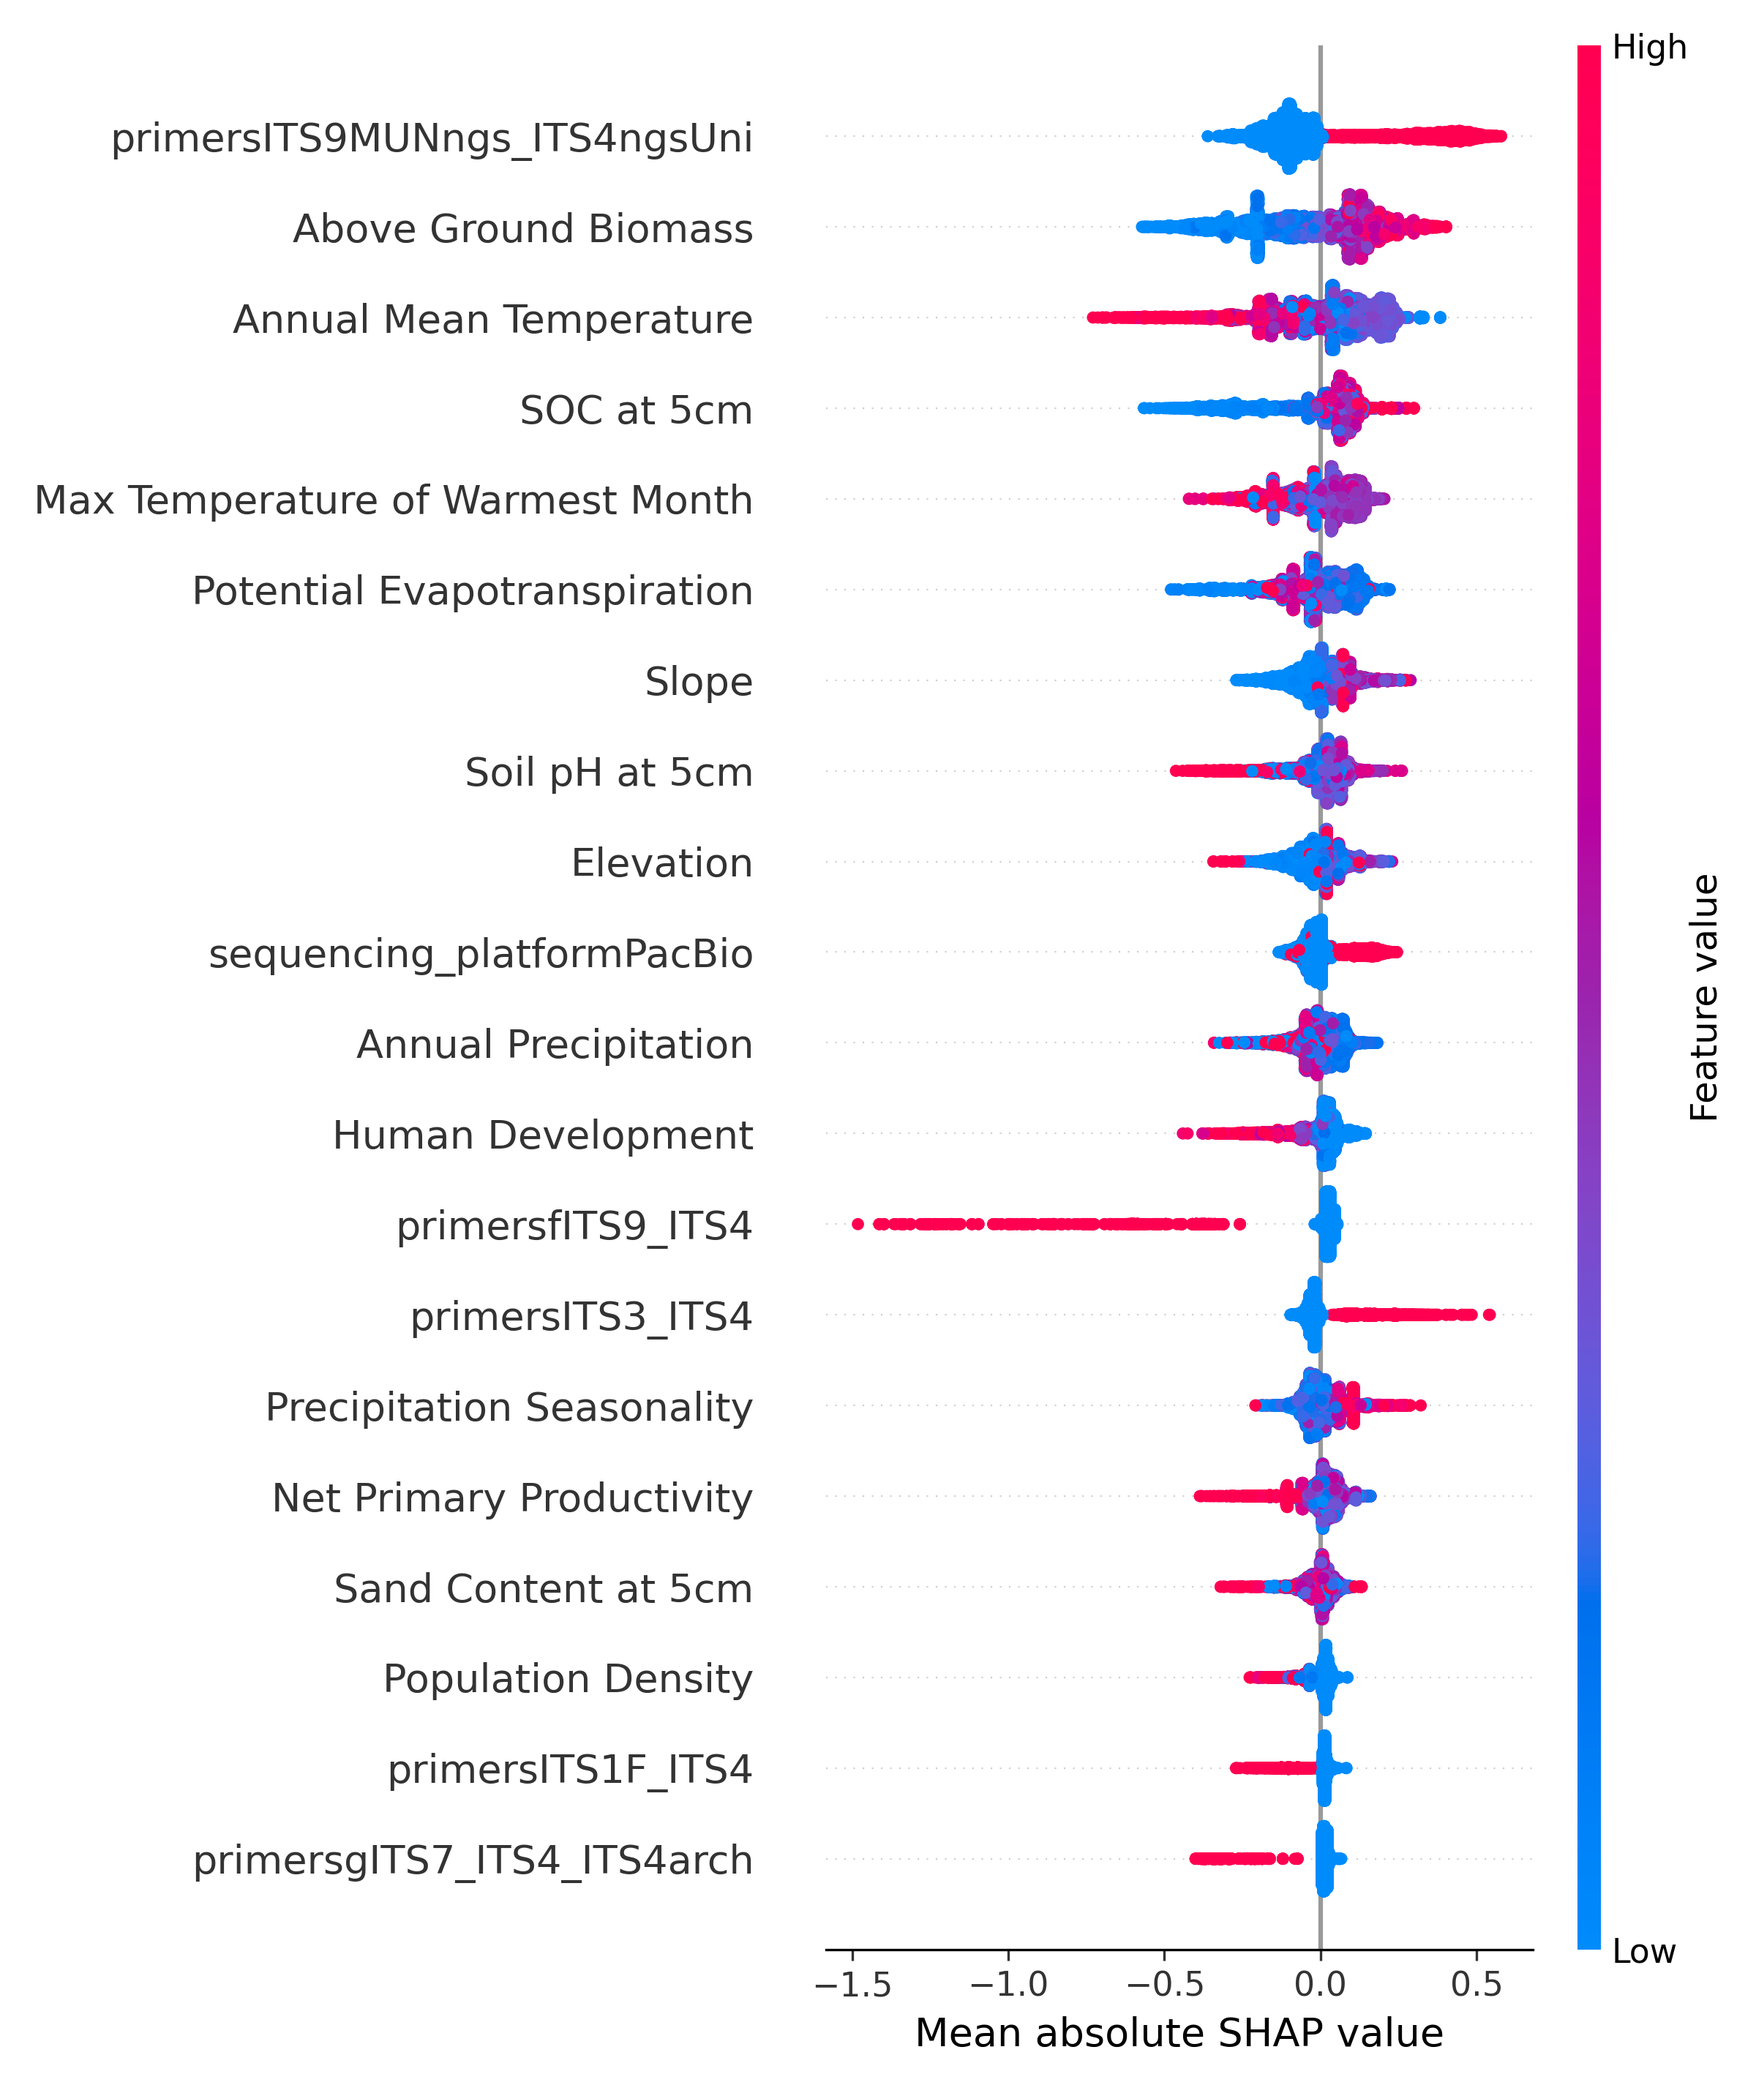
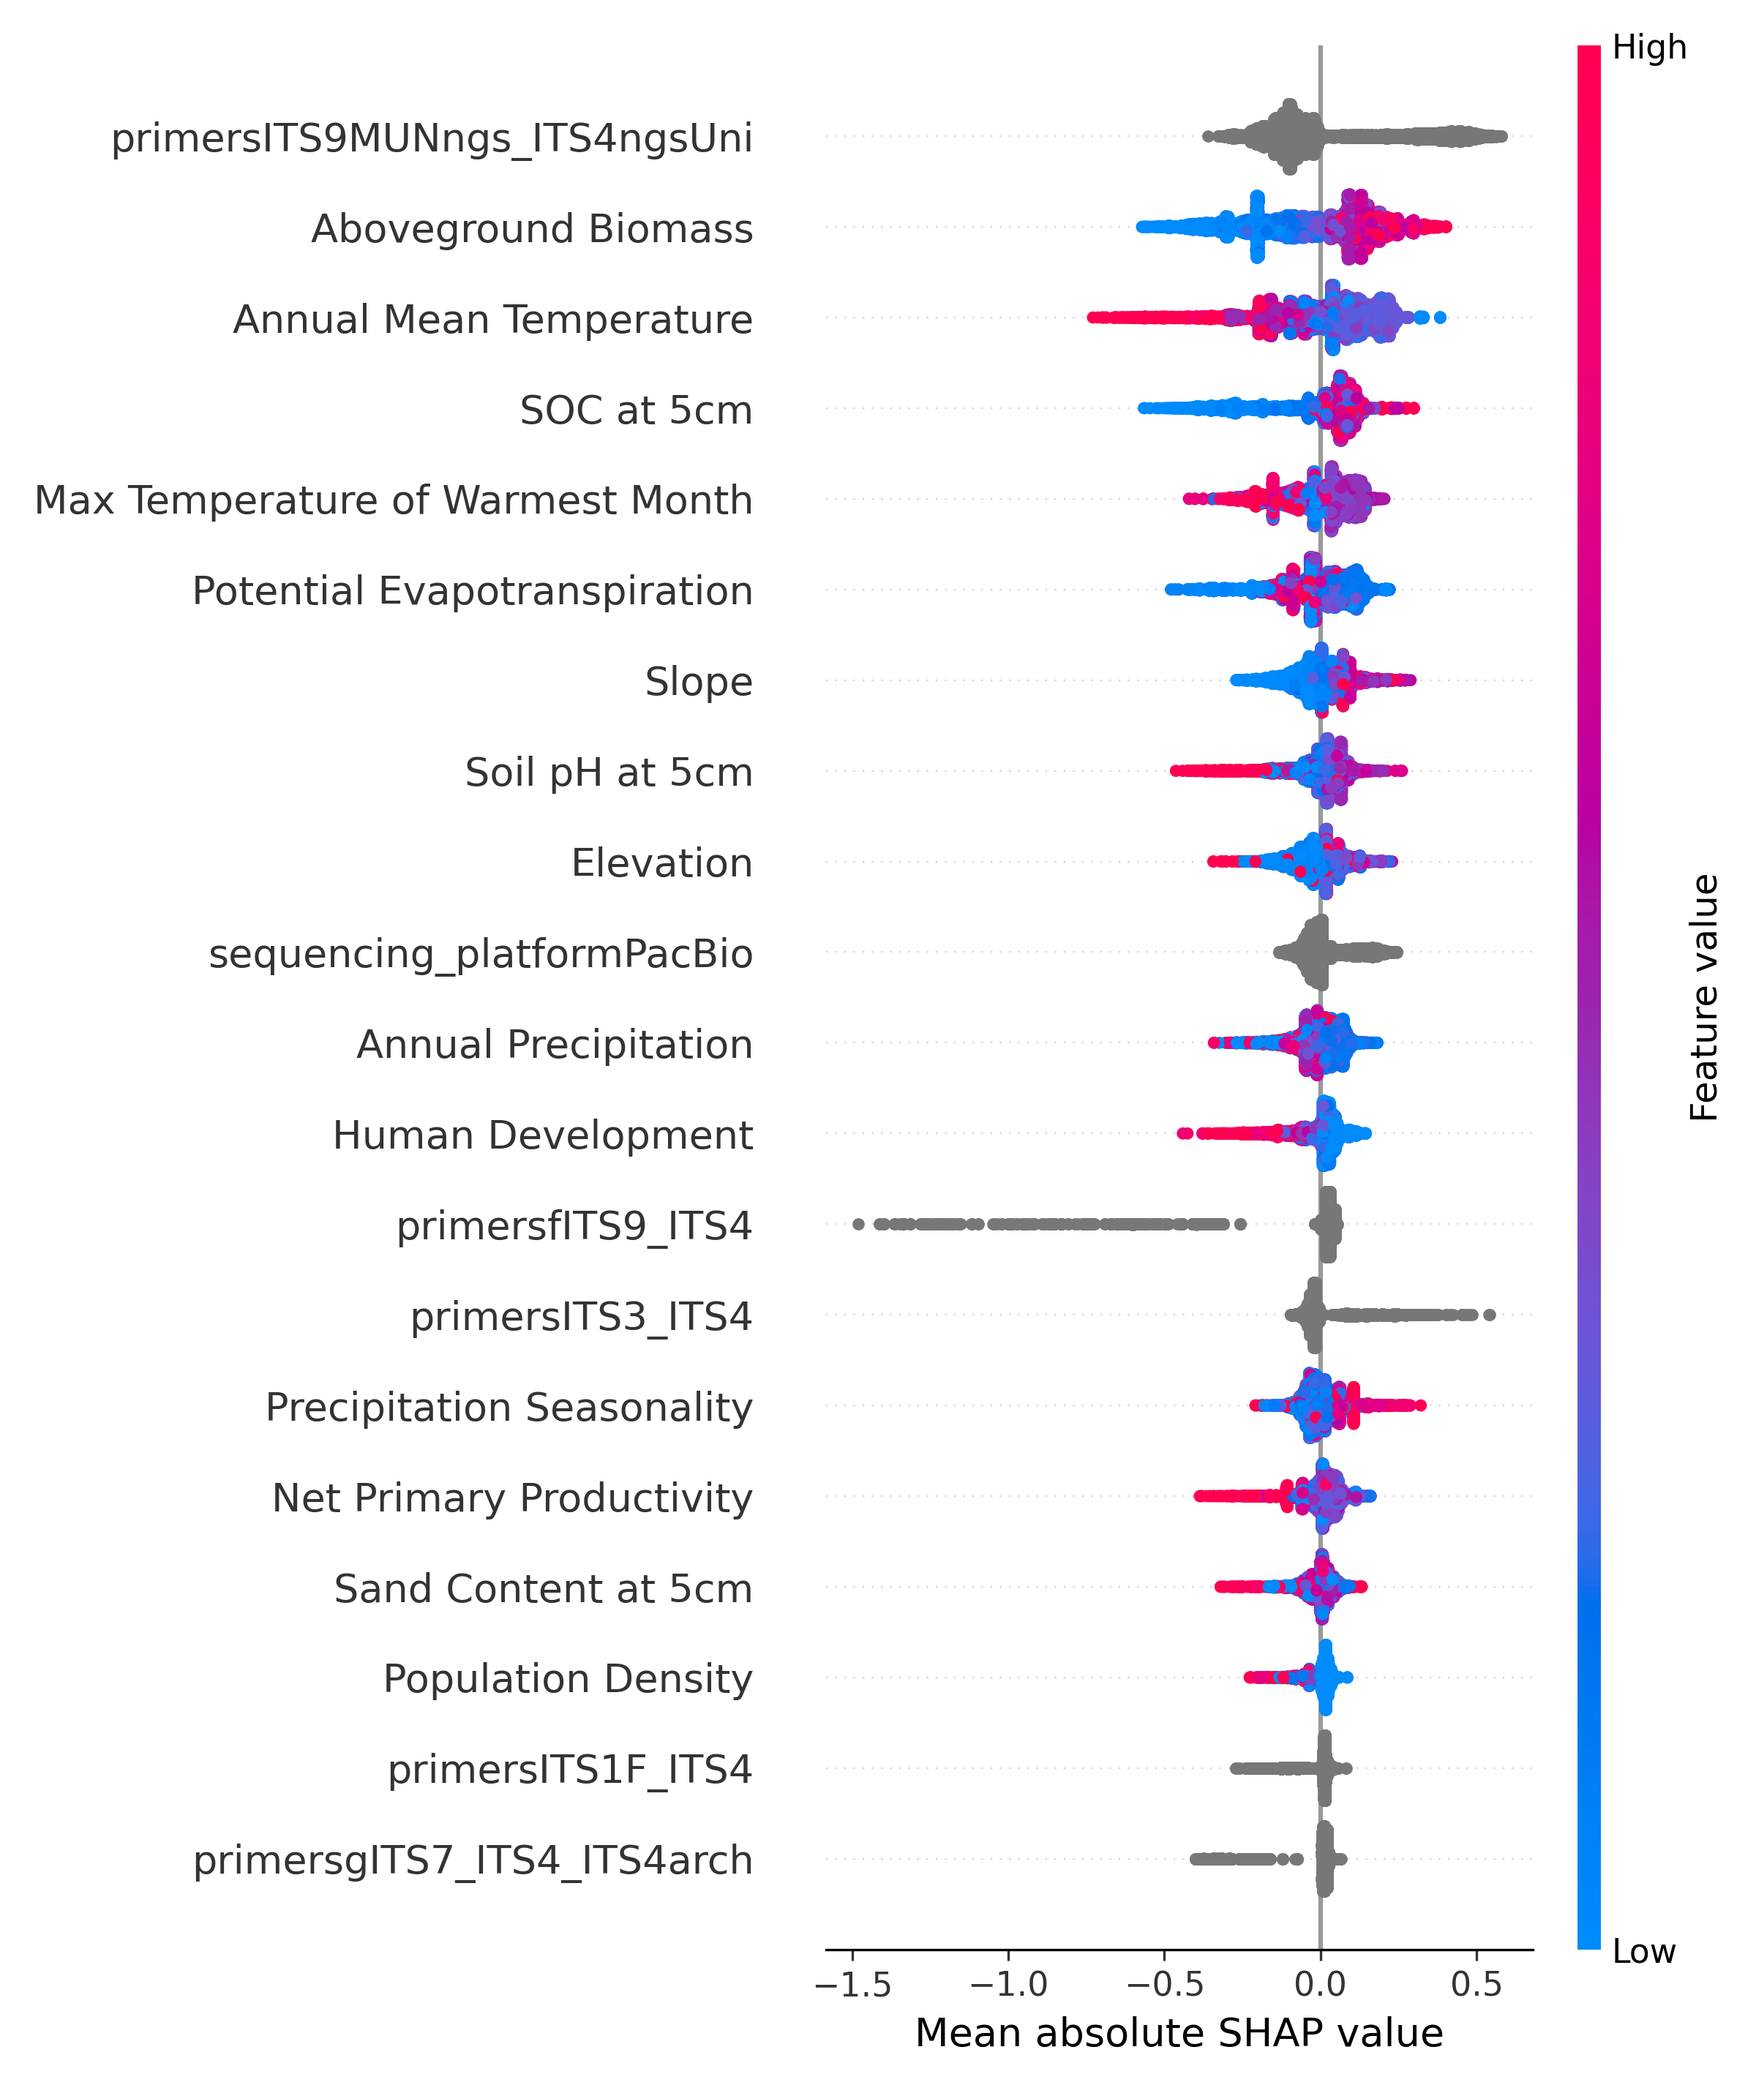
Fixed SHAP project variables

diff --git a/99_SHAP_AM.py b/99_SHAP_AM.py
@@ -64,7 +64,7 @@ envCovariateListRenamed = [
     'Topo. Position Index',
     'Burnt Areas Probability',
     'Population Density',
-    'Above Ground Biomass',
+    'Aboveground Biomass',
     'Net Primary Productivity',
     'Depth to Bedrock',
     'Sand Content at 5cm',
@@ -106,6 +106,10 @@ covariateList = envCovariateListRenamed + project_vars
 # Subset columns from df
 df = df[covariateList + [classProperty]]
 
+# Set categorical variables
+for cat in project_vars:
+    df[cat] = df[cat].astype('category')
+
 # Load data and labels
 X = df[covariateList]
 y = df[classProperty]
@@ -136,74 +140,6 @@ def calculate_shap_values(rep):
 
     return shap_values.values
 
-# lambda function to revert dictionary
-revert_dict = lambda d: dict(chain(*[zip(val, repeat(key)) for key, val in d.items()]))
-     
-# function to group shap values by feature groups
-def grouped_shap(shap_vals, features, groups):
-    groupmap = revert_dict(groups)
-    shap_Tdf = pd.DataFrame(shap_vals, columns=pd.Index(features, name='features')).T
-    shap_Tdf['group'] = shap_Tdf.reset_index().features.map(groupmap).values
-    shap_grouped = shap_Tdf.groupby('group').sum().T
-    return shap_grouped
-
-# # Calculate SHAP values
-# shap_values_list = [shap_values.values, shap_values.values, shap_values.values]
-
-# # Calculate mean SHAP values
-# mean_shap_values = np.mean(shap_values_list, axis=0)
-
-# # Get renamed feature name for each feature in 'covariateList', return dictionary where key = renamed feature name and value = [original feature name]
-# feature_names_dict = dict(zip(envCovariateListRenamed, [[name] for name in envCovariateList]))
-
-# # Add 'project_vars' as group to 'feature_names_dict'
-# feature_names_dict.update({'project_vars': project_vars})
-
-# # Group SHAP values by feature groups
-# shap_grouped = grouped_shap(mean_shap_values, covariateList, feature_names_dict)
-
-# shap.summary_plot(shap_grouped.values, features=shap_grouped.columns)
-
-# # Plot
-# plt.figure()
-# shap.summary_plot(shap_grouped.values, pd.DataFrame(data = shap_grouped.values, columns = shap_grouped.columns), show=False, sort=True)
-# plt.xlabel('Mean absolute SHAP value')
-# plt.tight_layout()
-# plt.show()
-# # Sum 'project_vars' SHAP values together
-# project_shap_values = np.sum(mean_shap_values[:, len(covariateList) - len(project_vars):], axis=1).reshape(-1, 1)
-
-# # Get SHAP values for other features
-# other_shap_values = mean_shap_values[:, :len(covariateList) - len(project_vars)]
-
-# # Combine 'project_vars' SHAP values with other features
-# combined_shap_values = np.hstack([other_shap_values, project_shap_values])
-
-# # Create new feature names list
-# new_feature_names = covariateListRenamed + ["project_vars"]
-
-# # Create a DataFrame for SHAP values
-# df_shap_values = pd.DataFrame(data=combined_shap_values, columns=new_feature_names)
-
-# # Plot
-# plt.figure()
-# shap.summary_plot(combined_shap_values, df_shap_values, show=False, sort=True)
-# plt.xlabel('Mean absolute SHAP value')
-# plt.tight_layout()
-# plt.show()
-
-# # Plot
-# plt.figure()
-# shap.summary_plot(other_shap_values, pd.DataFrame(data = other_shap_values, columns = covariateListRenamed), show=False, sort=True)
-# plt.xlabel('Mean absolute SHAP value')
-# plt.tight_layout()
-# plt.show()
-
-# Create a shap scatter plot
-# plt.figure()
-# shap.plots.scatter(other_shap_values[:,"CGIAR_PET"])
-# plt.tight_layout()
-# plt.show()
 
 @contextmanager
 def poolcontext(*args, **kwargs):
@@ -212,11 +148,12 @@ def poolcontext(*args, **kwargs):
 		yield pool
 		pool.terminate()
 
-NPROC = 7
+NPROC = 10
 
 if __name__ == '__main__':
     reps = list(range(0, 10))
     with poolcontext(NPROC) as pool:
+        # Calculate SHAP values
         shap_values_list = pool.map(calculate_shap_values, reps)
 
         # Save SHAP values to file
@@ -226,12 +163,14 @@ if __name__ == '__main__':
         with np.load('shap_values_AM.npz') as data:
               shap_values_list = [data[f'arr_{i}'] for i in range(len(data.keys()))]
 
+        # Plot 1: SHAP summary plot, with all features
         plt.figure()
         shap.summary_plot(np.mean(shap_values_list, axis=0), pd.DataFrame(data=df, columns=covariateList), show = False, sort = True)
         plt.xlabel('Mean absolute SHAP value')
         plt.tight_layout()
-        plt.savefig('figures/20230622_arbuscular_mycorrhizal_richness_shap_summary_plots_full.png', dpi=300)
+        plt.savefig('figures/20230626_arbuscular_mycorrhizal_richness_shap_summary_plots_full.png', dpi=300)
 
+        # Plot 2: SHAP summary plot, with project_vars removed
         # Calculate mean SHAP values
         mean_shap_values = np.mean(shap_values_list, axis=0)
 
@@ -253,8 +192,32 @@ if __name__ == '__main__':
         shap.summary_plot(mean_shap_values_filtered, df_filtered, show=False, sort=True)
         plt.xlabel('Mean absolute SHAP value')
         plt.tight_layout()
-        plt.savefig('figures/20230622_arbuscular_mycorrhizal_richness_shap_summary_plots_projectRemoved.png', dpi=300)
+        plt.savefig('figures/20230626_arbuscular_mycorrhizal_richness_shap_summary_plots_projectRemoved.png', dpi=300)
 
+        # Plot 3: SHAP summary plot, with project_vars grouped together
+        # Sum 'project_vars' SHAP values together
+        project_shap_values = np.sum(mean_shap_values[:, len(covariateList) - len(project_vars):], axis=1).reshape(-1, 1)
+
+        # Get SHAP values for other features
+        other_shap_values = mean_shap_values[:, :len(covariateList) - len(project_vars)]
+
+        # Combine 'project_vars' SHAP values with other features
+        combined_shap_values = np.hstack([other_shap_values, project_shap_values])
+
+        # Create new feature names list
+        new_feature_names = envCovariateListRenamed + ["project_vars"]
+
+        # Create a df where project vars are Nan
+        df_project_vars_grouped = df[envCovariateListRenamed]
+        df_project_vars_grouped.loc[:, 'Project Variables'] = np.NaN
+
+        plt.figure()
+        shap.summary_plot(combined_shap_values, features = df_project_vars_grouped, sort=True, show = False)
+        plt.xlabel('Mean absolute SHAP value')
+        plt.tight_layout()
+        plt.savefig('figures/20230626_arbuscular_mycorrhizal_richness_shap_summary_plots_projectGrouped.png', dpi=300)
+
+        # Plot 4: SHAP dependence plots for the top 6 features
         # Create SHAP explanation object        
         explanation = shap.Explanation(values=mean_shap_values_filtered,
                     # base_values=shap_values_list[0].base_values,
@@ -274,5 +237,16 @@ if __name__ == '__main__':
             plt.tight_layout()
 
         # Save figure to file
-        plt.savefig('figures/20230622_arbuscular_mycorrhizal_richness_shap_scatter_plots_wInteraction.png', dpi=300)
+        plt.savefig('figures/20230626_arbuscular_mycorrhizal_richness_shap_scatter_plots_wInteraction.png', dpi=300)
 
+        # Plot 5: SHAP dependence plots for the top 6 features, without interaction
+        # Create a multipanelled figure of the top 6 features
+        fig, axes = plt.subplots(nrows=2, ncols=3, figsize=(15, 8))
+
+        # Plots without interaction
+        for i, feature_idx in enumerate(top_6):
+            shap.dependence_plot(envCovariateListRenamed[feature_idx], explanation.values, X[envCovariateListRenamed], ax=axes[i // 3, i % 3], interaction_index = None, show=False)
+            plt.tight_layout()
+
+        # Save figure to file
+        plt.savefig('figures/20230626_arbuscular_mycorrhizal_richness_shap_scatter_plots.png', dpi=300)

diff --git a/99_SHAP_EM.py b/99_SHAP_EM.py
@@ -1,6 +1,7 @@
 import pandas as pd
 import numpy as np
-import shap
+import shap        
+from shap.plots import colors
 from sklearn.ensemble import RandomForestRegressor
 import matplotlib.pyplot as plt
 import multiprocessing
@@ -63,7 +64,7 @@ envCovariateListRenamed = [
     'Topo. Position Index',
     'Burnt Areas Probability',
     'Population Density',
-    'Above Ground Biomass',
+    'Aboveground Biomass',
     'Net Primary Productivity',
     'Depth to Bedrock',
     'Sand Content at 5cm',
@@ -112,6 +113,10 @@ covariateList = envCovariateListRenamed + project_vars
 # Subset columns from df
 df = df[covariateList + [classProperty]]
 
+# Set categorical variables
+for cat in project_vars:
+    df[cat] = df[cat].astype('category')
+
 # Load data and labels
 X = df[covariateList]
 y = df[classProperty]
@@ -141,7 +146,6 @@ def calculate_shap_values(rep):
 
     return shap_values.values
 
-
 @contextmanager
 def poolcontext(*args, **kwargs):
 		"""This just makes the multiprocessing easier with a generator."""
@@ -149,27 +153,29 @@ def poolcontext(*args, **kwargs):
 		yield pool
 		pool.terminate()
 
-NPROC = 10
+NPROC = 1
 
 if __name__ == '__main__':
     reps = list(range(0, 10))
     with poolcontext(NPROC) as pool:
-        # Calculate SHAP values, returns a list of arrays
-        shap_values_list = pool.map(calculate_shap_values, reps)
+        # # Calculate SHAP values, returns a list of arrays
+        # shap_values_list = pool.map(calculate_shap_values, reps)
         
-        # Save SHAP values to file
-        np.savez('shap_values_AM.npz', *shap_values_list)
+        # # Save SHAP values to file
+        # np.savez('shap_values_EM.npz', *shap_values_list)
 
         # Read SHAP values from file
-        with np.load('shap_values_AM.npz') as data:
+        with np.load('shap_values_EM.npz') as data:
               shap_values_list = [data[f'arr_{i}'] for i in range(len(data.keys()))]
 
+        # Plot 1: SHAP summary plot, with all features
         plt.figure()
         shap.summary_plot(np.mean(shap_values_list, axis=0), pd.DataFrame(data=df, columns=covariateList), show = False, sort = True)
         plt.xlabel('Mean absolute SHAP value')
         plt.tight_layout()
         plt.savefig('figures/20230626_ectomycorrhizal_richness_shap_summary_plots_full.png', dpi=300)
 
+        # Plot 2: SHAP summary plot, with project_vars removed
         # Calculate mean SHAP values
         mean_shap_values = np.mean(shap_values_list, axis=0)
 
@@ -193,7 +199,7 @@ if __name__ == '__main__':
         plt.tight_layout()
         plt.savefig('figures/20230626_ectomycorrhizal_richness_shap_summary_plots_projectRemoved.png', dpi=300)
 
-        # Create plot where project_vars are grouped together
+        # Plot 3: SHAP summary plot, with project_vars grouped together
         # Sum 'project_vars' SHAP values together
         project_shap_values = np.sum(mean_shap_values[:, len(covariateList) - len(project_vars):], axis=1).reshape(-1, 1)
 
@@ -206,17 +212,17 @@ if __name__ == '__main__':
         # Create new feature names list
         new_feature_names = envCovariateListRenamed + ["project_vars"]
 
-        # Create a DataFrame for SHAP values
-        df_shap_values = pd.DataFrame(data=combined_shap_values, columns=new_feature_names)
+        # Create a df where project vars are Nan
+        df_project_vars_grouped = df[envCovariateListRenamed]
+        df_project_vars_grouped.loc[:, 'Project Variables'] = np.NaN
 
-        # Plot
         plt.figure()
-        shap.summary_plot(combined_shap_values, df_shap_values, show=False, sort=True)
+        shap.summary_plot(combined_shap_values, features = df_project_vars_grouped, sort=True, show = False)
         plt.xlabel('Mean absolute SHAP value')
         plt.tight_layout()
-        plt.show()
-        # plt.savefig('figures/20230626_ectomycorrhizal_richness_shap_summary_plots_projectGrouped.png', dpi=300)
+        plt.savefig('figures/20230626_ectomycorrhizal_richness_shap_summary_plots_projectGrouped.png', dpi=300)
 
+        # Plot 4: SHAP dependence plots for the top 6 features
         # Create SHAP explanation object        
         explanation = shap.Explanation(values=mean_shap_values_filtered,
                     # base_values=shap_values_list[0].base_values,
@@ -238,3 +244,14 @@ if __name__ == '__main__':
         # Save figure to file
         plt.savefig('figures/20230626_ectomycorrhizal_richness_shap_scatter_plots_wInteraction.png', dpi=300)
 
+        # Plot 5: SHAP dependence plots for the top 6 features, without interaction
+        # Create a multipanelled figure of the top 6 features
+        fig, axes = plt.subplots(nrows=2, ncols=3, figsize=(15, 8))
+
+        # Plots without interaction
+        for i, feature_idx in enumerate(top_6):
+            shap.dependence_plot(envCovariateListRenamed[feature_idx], explanation.values, X[envCovariateListRenamed], ax=axes[i // 3, i % 3], interaction_index = None, show=False)
+            plt.tight_layout()
+
+        # Save figure to file
+        plt.savefig('figures/20230626_ectomycorrhizal_richness_shap_scatter_plots.png', dpi=300)
